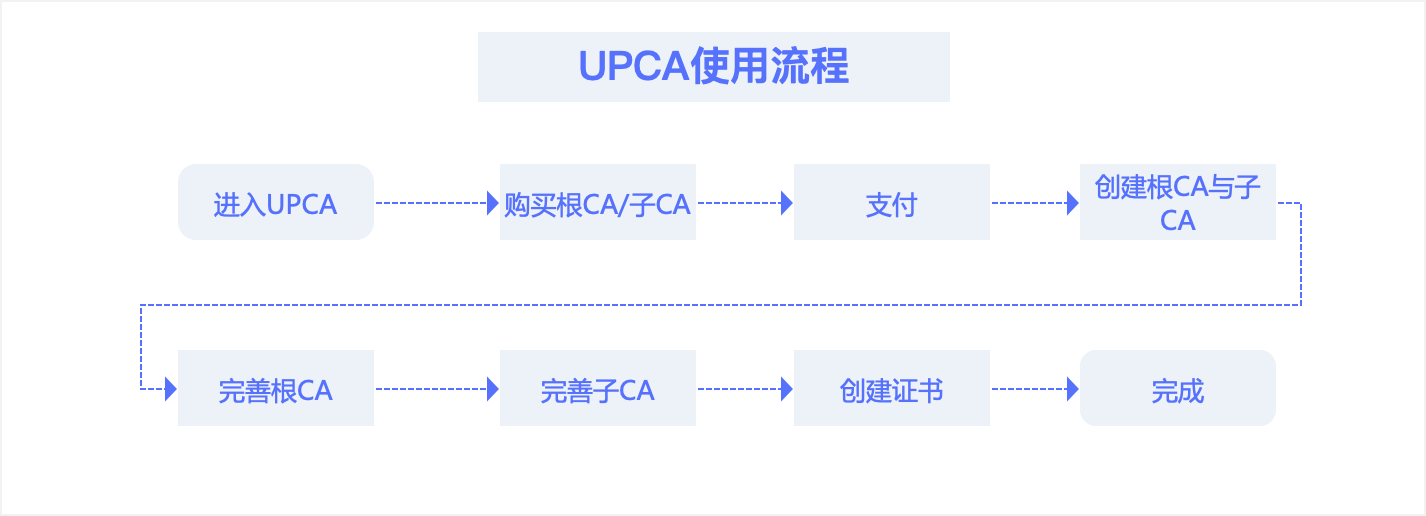
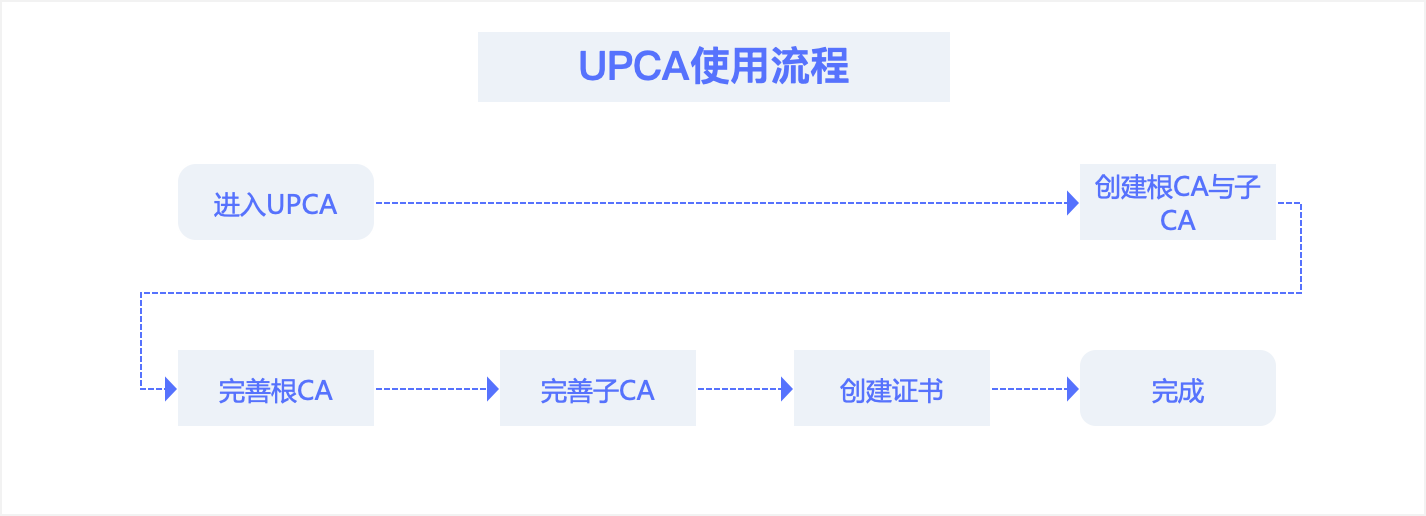
upca

Changed region(s): [[0.3394, 0.3721, 0.4937, 0.4341], [0.5863, 0.3721, 0.648, 0.4341], [0.5245, 0.3721, 0.5554, 0.4031]]

diff --git a/upca/ksss.md b/upca/ksss.md
@@ -1,25 +1,55 @@
 # 证书快速上手
 
-### 一、UPCA私有证书使用流程：
 
 ![](/images/UPCA/使用流程图.png)
-**1、进入UPCA**
 
-进入USSL：
+### 一、进入UPCA
+
+**进入USSL**
 ![](/images/UPCA/jrupca1.png)
 
-选择UPCA选项：
+**选择UPCA选项**
 ![](/images/UPCA/jrupca2.png)   
 
+### 二、创建根CA/子CA
 
-### 二、证书申请流程
+**1、进入CA管理页创建证书**
+![](/images/UPCA/cj1.png)  
 
-![](/images/operate/申请证书.png)
+**2、选择根CA类型**
+
+创建根CA的同时会默认创建一个子CA
+![](/images/UPCA/cj2.png)  
+
+**3、支付**
+![](/images/UPCA/cj3.png)  
 
 
-### 三、证书注销流程
 
-备注：针对已颁发证书，吊销流程同购买流程，都需要验证
+### 三、完善根CA
+
+**列表页对应根CA位置，点击”完善信息“**
+![](/images/UPCA/cj4.png)  
+
+**填写根CA相关信息**
+![](/images/UPCA/cj5.png)  
 
 
-![](/images/operate/吊销证书.png)
+### 四、完善子CA
+
+**列表页对应子CA位置，点击”完善信息“**
+![](/images/UPCA/cj6.png)  
+
+**填写子CA相关信息**
+![](/images/UPCA/cj7.png)  
+
+
+
+### 五、创建证书
+
+**列表页对应子CA位置，点击”创建证书“**
+![](/images/UPCA/cj9.png)  
+
+**填写证书相关信息**
+![](/images/UPCA/cj8.png)  
+
